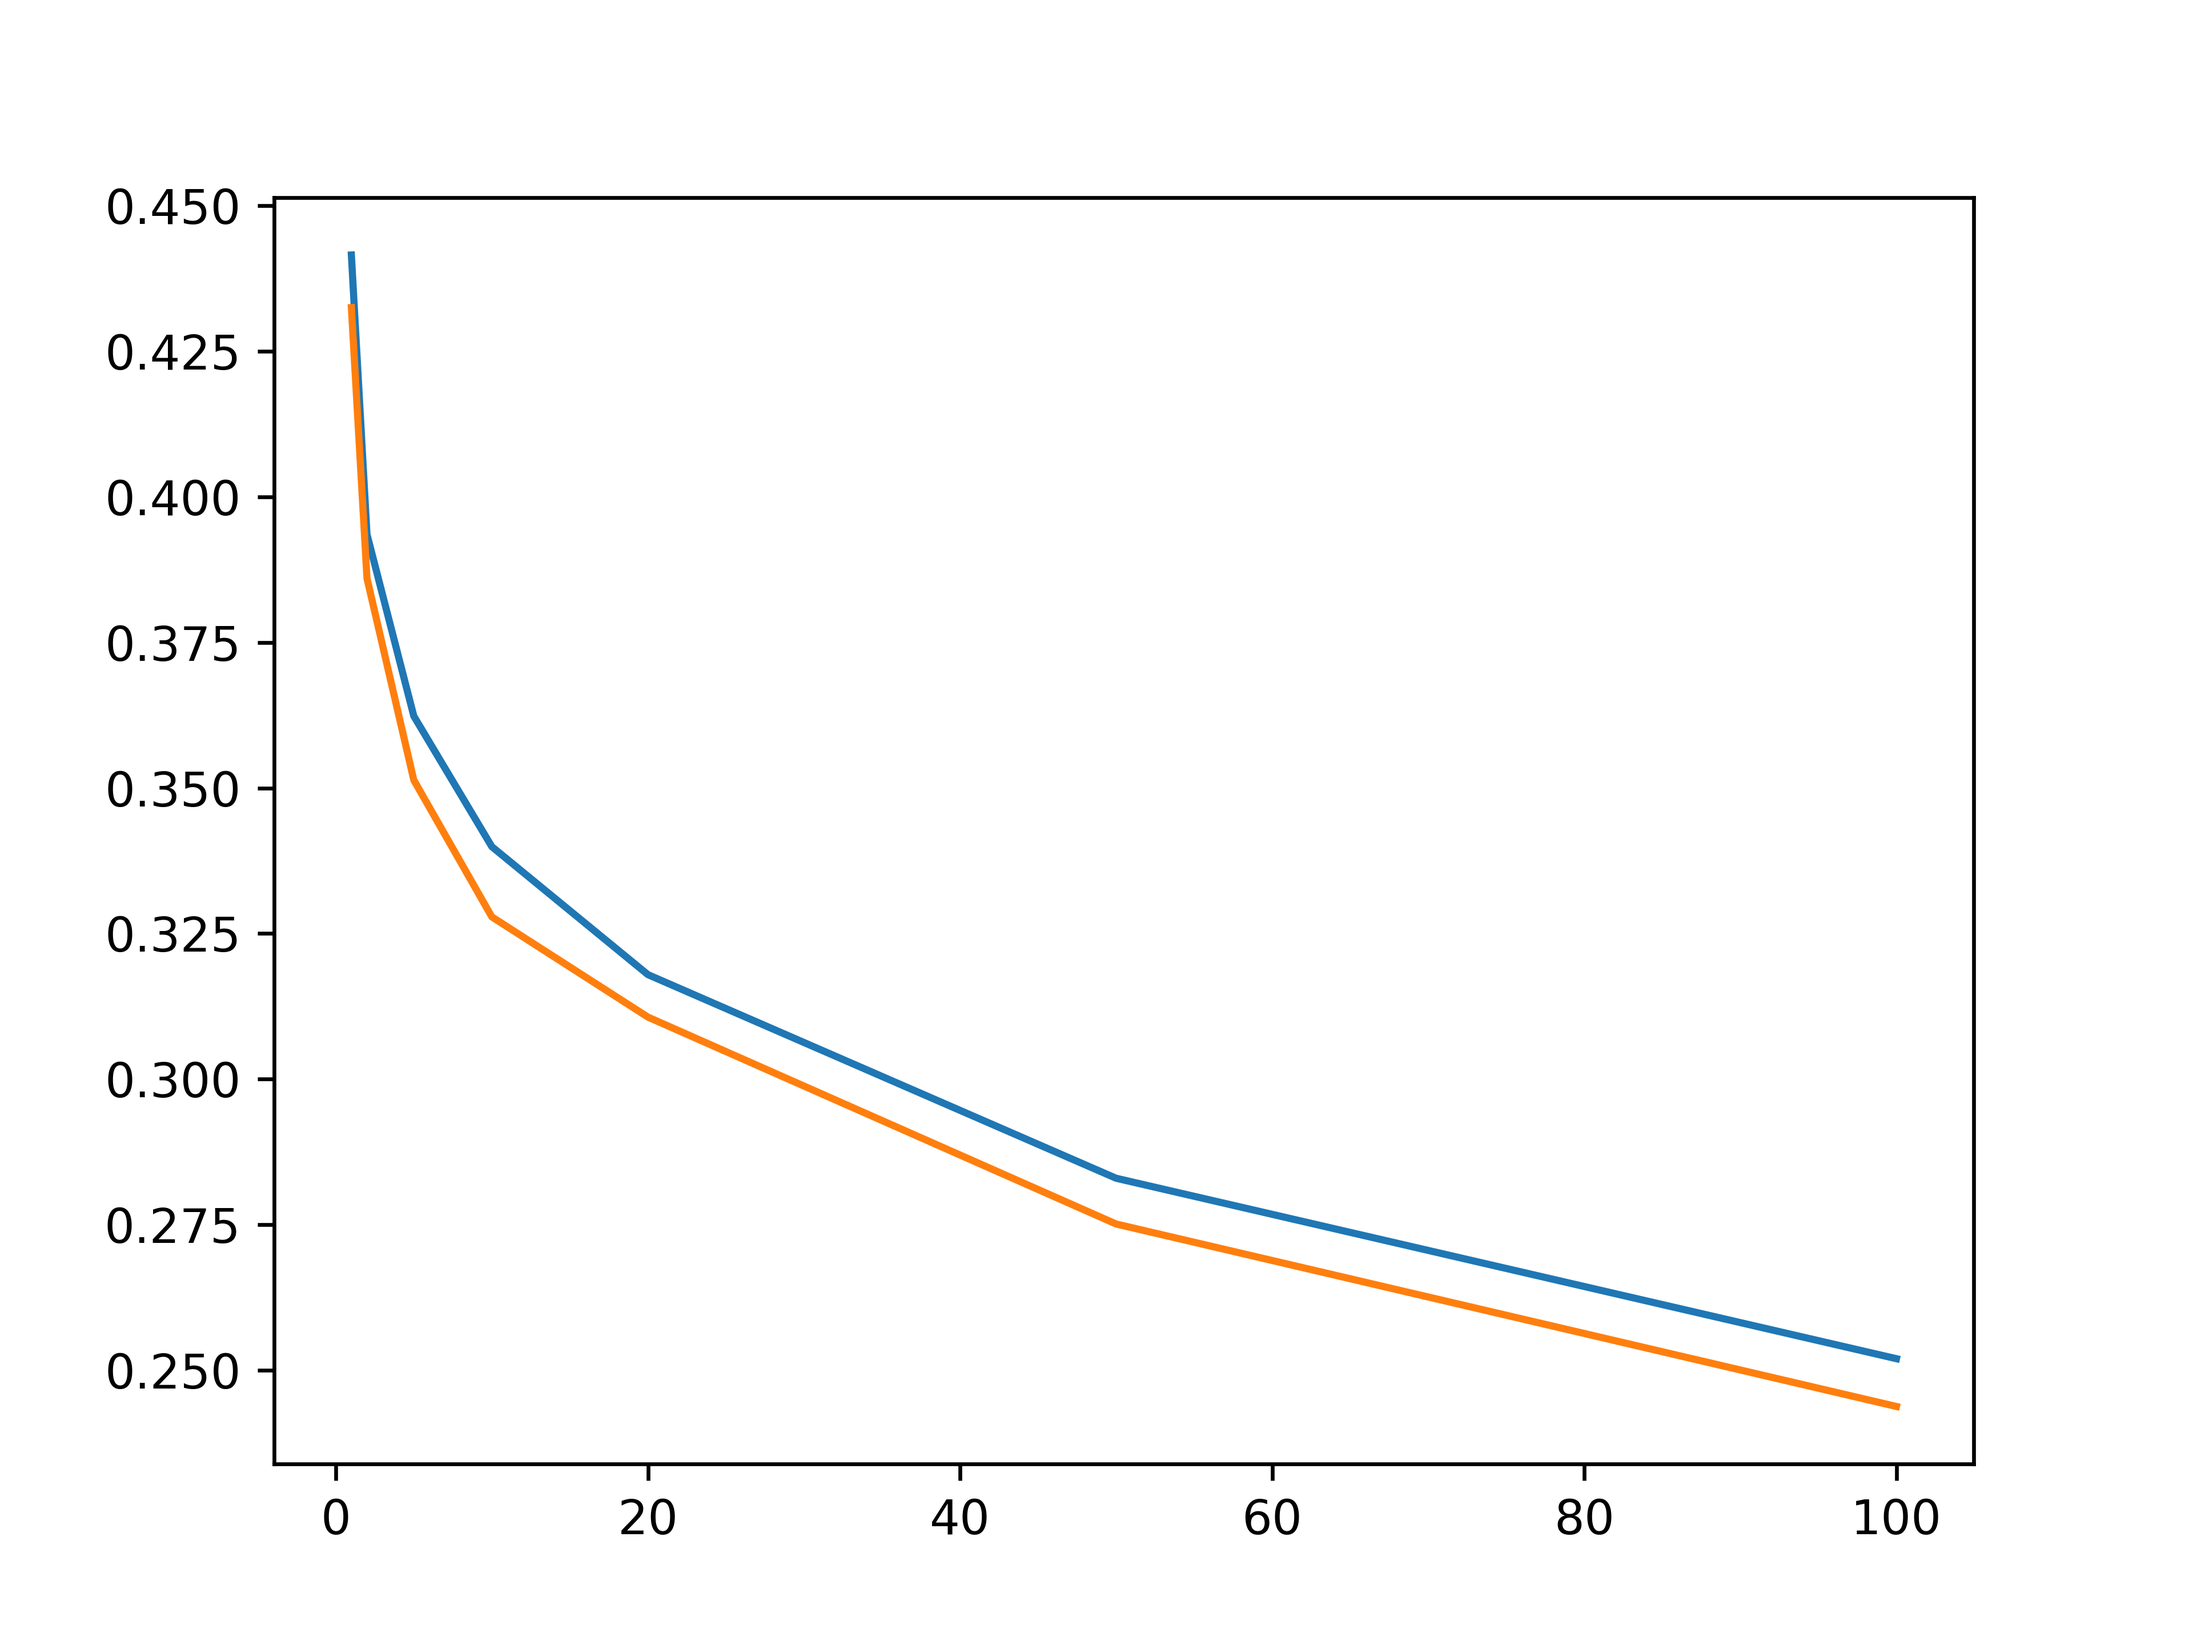
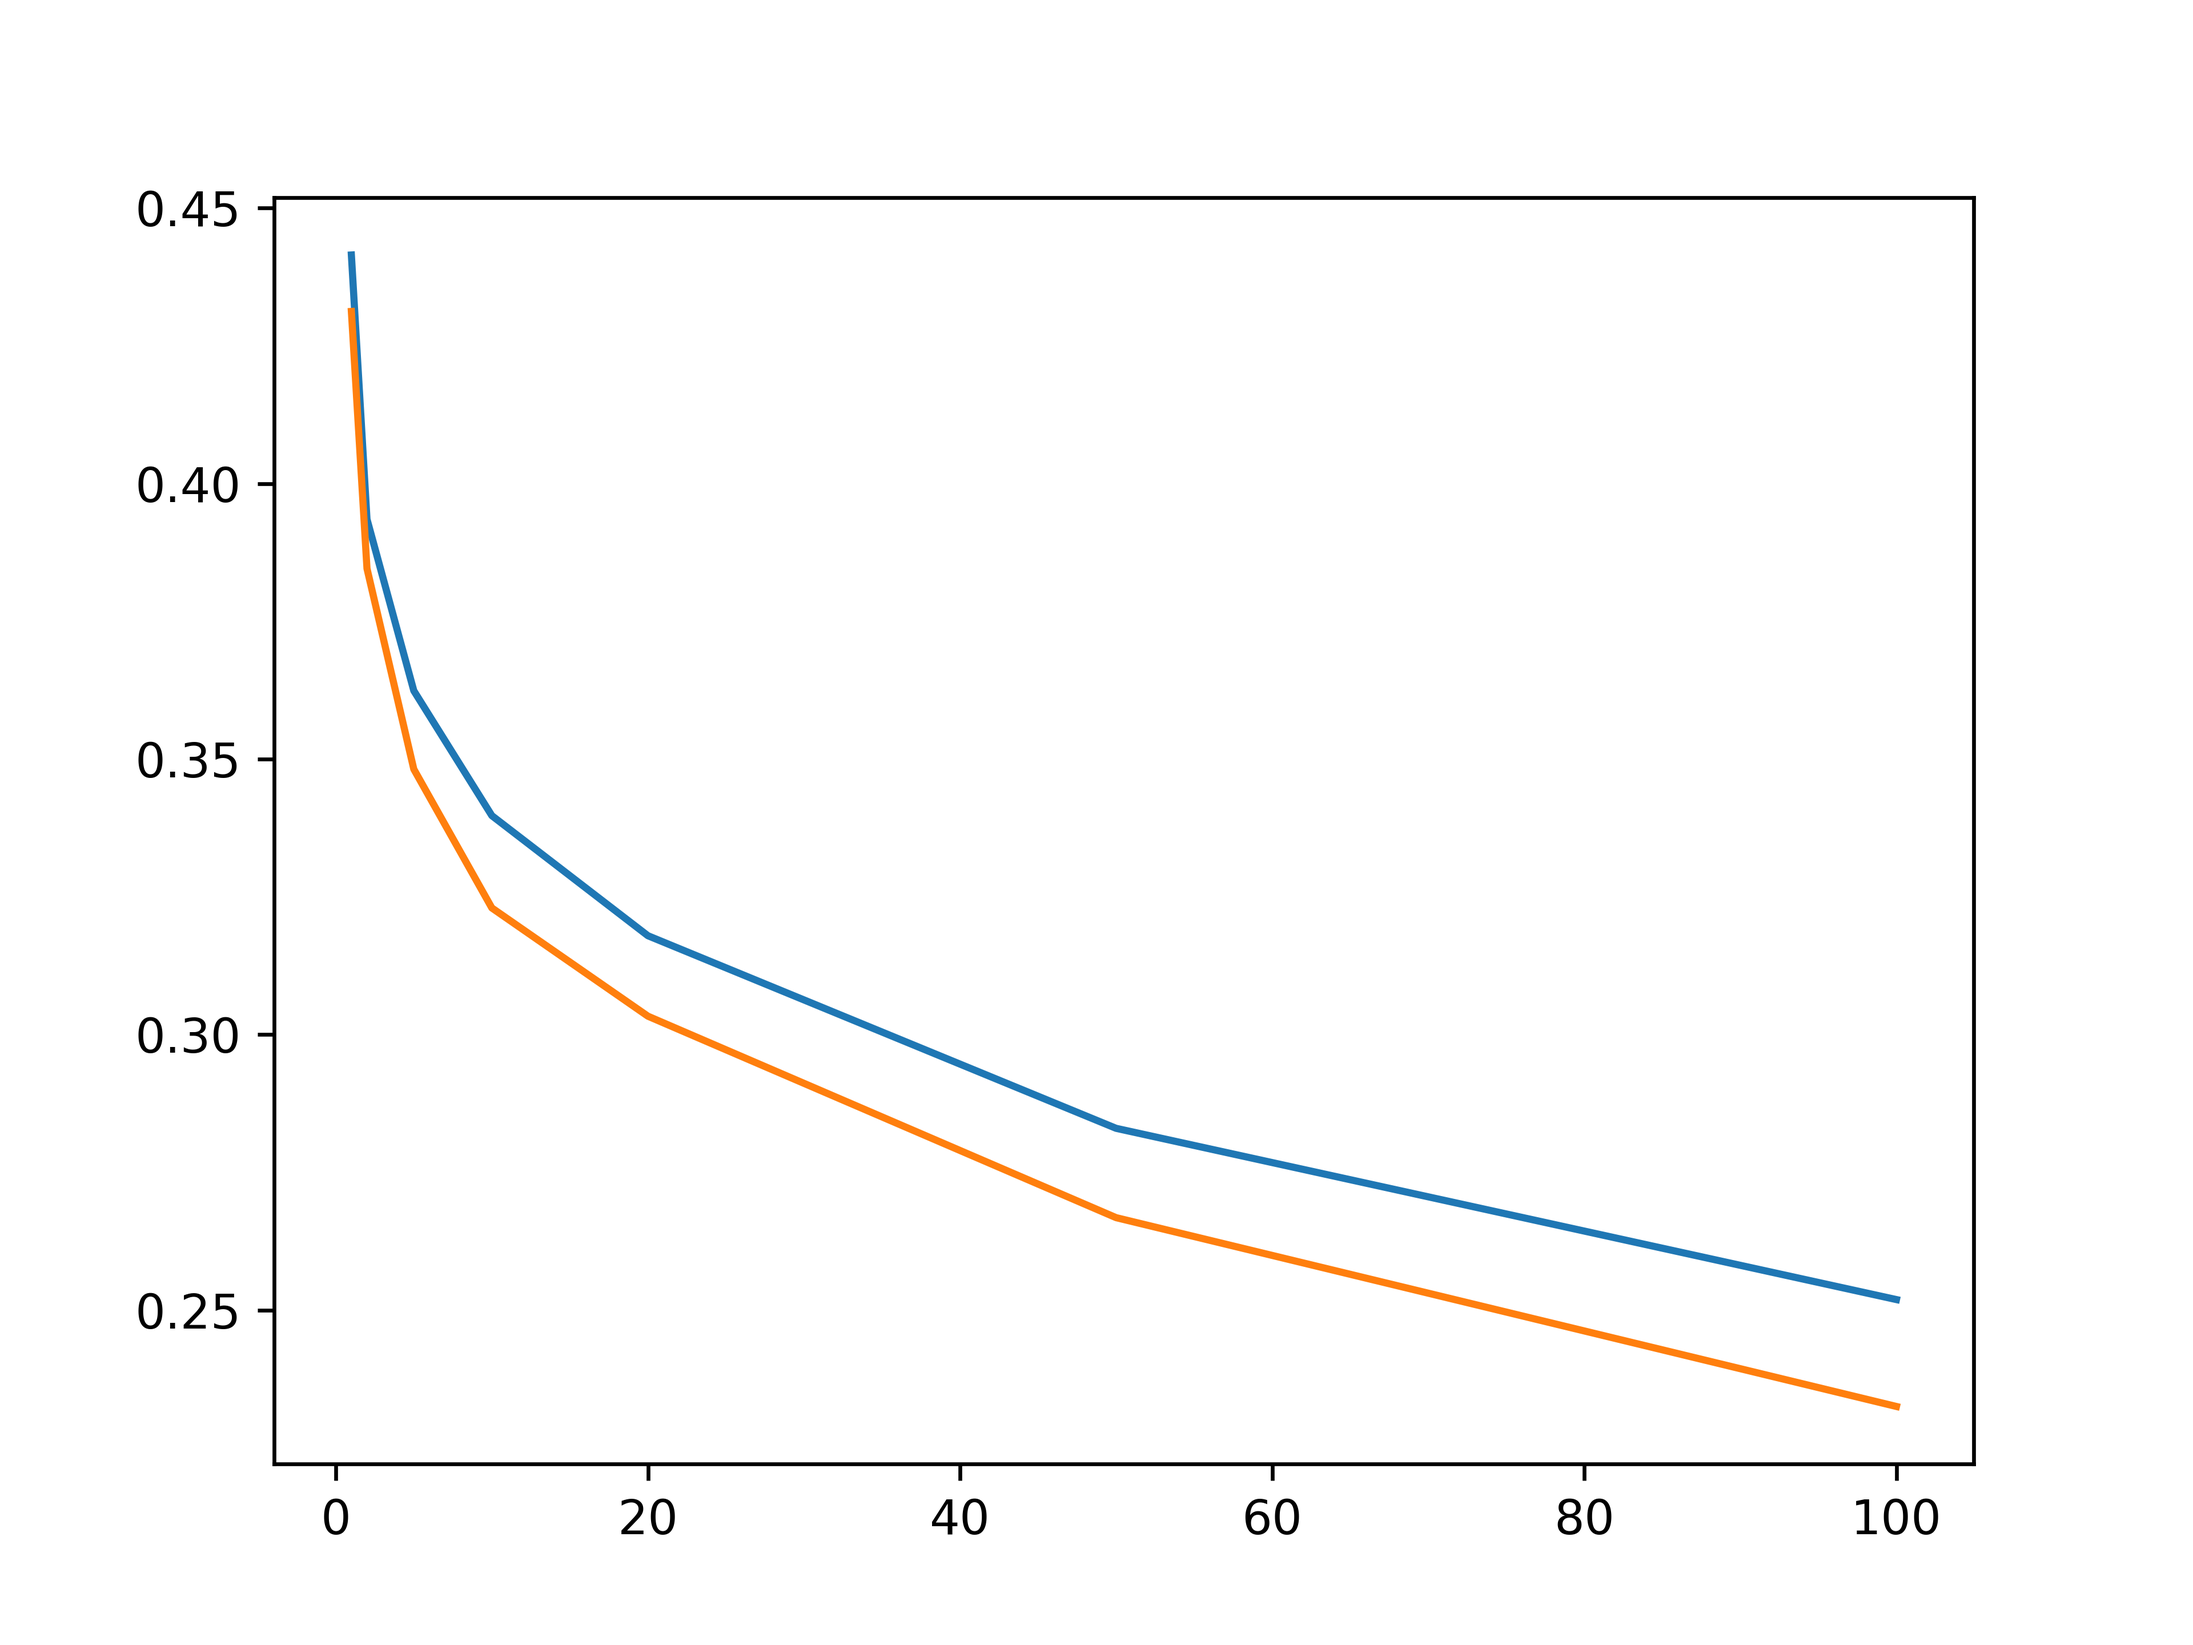
Combination with [0,2,3,4,5], and STDDEV RANGE 2 Result the best unit-accuracy of a sample

diff --git a/Final_proj/KNN_regressor.py b/Final_proj/KNN_regressor.py
@@ -16,7 +16,7 @@ MAX_NEIGHBOR_CNT = 5
 PERMITTED_ERR_RANGE = 1000
 STDDEV_RANGE = 2
 #Column pos in the original train dataset for the continuous data
-continuous_feature_pos = [2,3,4,5]
+continuous_feature_pos = [0,2,3,4,5]
 x_axis_nei_cnt = [] #The x-axis of the plotting dataset
 y_axis_acc_cnt = [] #The y-axis of the plotting dataset
 #Column pos in the original train dataset for the discrete data
